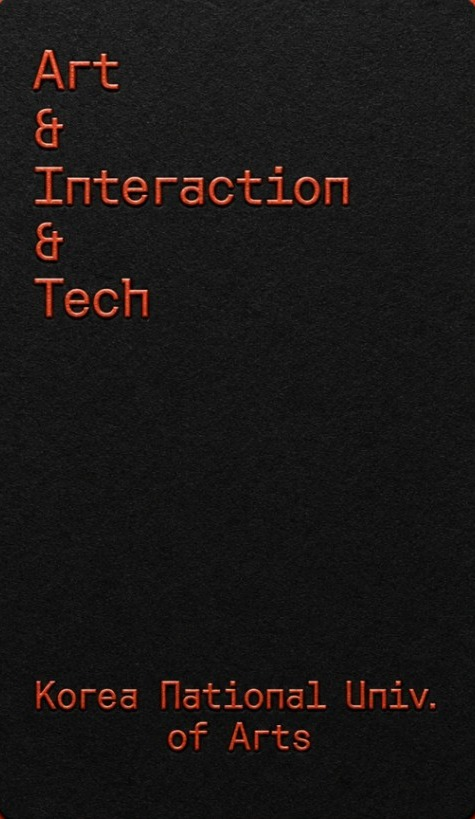
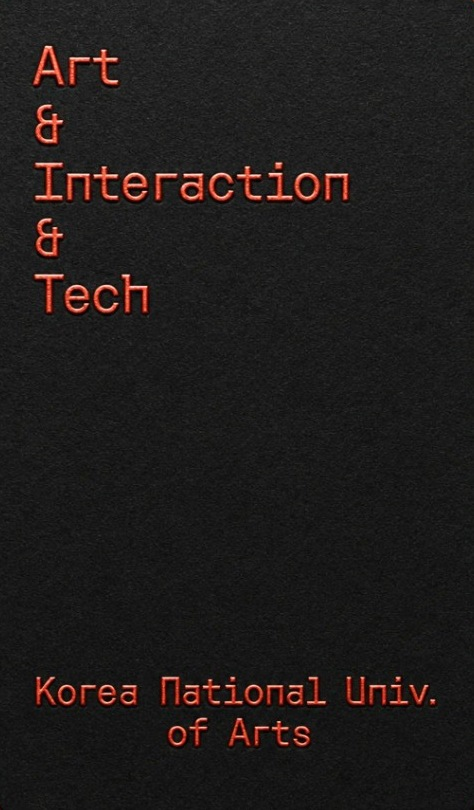
new

diff --git a/components/portfolioEngine.js b/components/portfolioEngine.js
@@ -525,29 +525,58 @@ export function mountPortfolio(els, sections, cardImages, options = {}) {
   backBtn.addEventListener('click', () => backToCard());
 
   // 이메일 복사
-  const EMAIL = 'dus10167@gmail.com';
+  const HANDLE = '@soon_soon_ac';
   let copyTimer = null;
   copyBtn.addEventListener('click', async () => {
     let ok = false;
-    try { await navigator.clipboard.writeText(EMAIL); ok = true; }
+    try { await navigator.clipboard.writeText(HANDLE); ok = true; }
     catch (_) {
       const ta = document.createElement('textarea');
-      ta.value = EMAIL; ta.setAttribute('readonly', ''); ta.style.position = 'fixed'; ta.style.opacity = '0';
+      ta.value = HANDLE; ta.setAttribute('readonly', ''); ta.style.position = 'fixed'; ta.style.opacity = '0';
       document.body.appendChild(ta); ta.select();
       try { ok = document.execCommand('copy'); } catch (_) {}
       ta.remove();
     }
-    copyBtn.textContent = ok ? 'Copied' : EMAIL;
-    copyBtn.setAttribute('aria-label', ok ? '이메일 주소를 복사했어요' : '복사하지 못했어요. 주소를 직접 선택해 주세요');
+    copyBtn.textContent = ok ? 'Copied' : HANDLE;
+    copyBtn.setAttribute('aria-label', ok ? '@soon_soon_ac를 복사했어요' : '복사하지 못했어요. 아이디를 직접 선택해 주세요');
     clearTimeout(copyTimer);
     copyTimer = setTimeout(() => {
-      copyBtn.textContent = 'Copy';
-      copyBtn.setAttribute('aria-label', '이메일 주소 복사');
+      copyBtn.textContent = HANDLE;
+      copyBtn.setAttribute('aria-label', '@soon_soon_ac 복사');
     }, 1600);
   });
 
   // Hello 누르면 :D 가 떨어짐
-  const HELLO_BOX = { u0: 0.28, u1: 0.72, v0: 0.69, v1: 0.81 };   // 앞면 이미지 안 Hello 영역 (비율)
+  const HELLO_BOX = { u0: 0.28, u1: 0.72, v0: 0.73, v1: 0.84 };   // 앞면 이미지 안 Hello 영역 (비율)
+  const arrowW = 0.5, arrowH = 0.21;
+  const arrowCanvas = document.createElement('canvas');
+  arrowCanvas.width = 512; arrowCanvas.height = 214;
+  const arrowCtx = arrowCanvas.getContext('2d');
+  arrowCtx.lineCap = 'round';
+  arrowCtx.lineJoin = 'round';
+  arrowCtx.lineWidth = 26;
+  const strokeChevron = (dx, dy) => {
+    arrowCtx.beginPath();
+    arrowCtx.moveTo(40 + dx, 30 + dy);
+    arrowCtx.lineTo(256 + dx, 172 + dy);
+    arrowCtx.lineTo(472 + dx, 30 + dy);
+    arrowCtx.stroke();
+  };
+  arrowCtx.strokeStyle = 'rgba(78, 22, 12, 0.72)';
+  strokeChevron(2, 4);
+  arrowCtx.strokeStyle = 'rgba(255, 206, 184, 0.9)';
+  strokeChevron(-1, -2);
+  const arrowMap = new THREE.CanvasTexture(arrowCanvas);
+  arrowMap.colorSpace = THREE.SRGBColorSpace;
+  const helloArrow = new THREE.Mesh(
+    new THREE.PlaneGeometry(arrowW, arrowH),
+    new THREE.MeshBasicMaterial({ map: arrowMap, color: 0xffffff, toneMapped: false, transparent: true, opacity: 0, depthWrite: false, side: THREE.DoubleSide })
+  );
+  const arrowBaseY = (0.5 - HELLO_BOX.v0) * CARD_H + 0.07 + arrowH / 2;
+  helloArrow.position.set(0, arrowBaseY, CARD_T / 2 + 0.02);
+  helloArrow.visible = false;
+  cardInner.add(helloArrow);
+  let arrowOut = 0;
   // :D 공: 배경에서 천천히 내려와 부유하다가 10초 뒤 사라짐
   function smileTexture(bg, ink) {
     const c = document.createElement('canvas'); c.width = 1024; c.height = 512;
@@ -1099,6 +1128,11 @@ export function mountPortfolio(els, sections, cardImages, options = {}) {
     const breathGain = 1 + 0.22 * breathHump * idle * (1 - Math.min(1, cOut));
     cardMats.forEach(m => { if (m.map) m.color.setRGB(breathGain, breathGain, breathGain); });
     cardLight.intensity = 3.4 * (1 - cOut) * (1 + 0.12 * breathHump * idle);
+    const arrowWant = !greeted && flipT < 0.04 && mode === 'card' && cOut < 0.02 ? 1 : 0;
+    arrowOut += (arrowWant - arrowOut) * Math.min(1, dt * (arrowWant ? 2.4 : 7));
+    helloArrow.visible = arrowOut > 0.02;
+    helloArrow.material.opacity = arrowOut;
+    helloArrow.position.y = arrowBaseY + Math.sin(t * 2.6) * 0.035 * idle;
 
     // 키 모듈
     device.visible = dRaw > 0.001;

diff --git a/styles/globals.css b/styles/globals.css
@@ -44,7 +44,7 @@ button { font: inherit; }
     content: ""; position: absolute; inset: 0; background: #000; z-index: 0;
     pointer-events: none; transition: opacity 0.9s ease, background-color 0.45s ease;
   }
-  .pocket.mode-card.show-back::after { background: #DA3610; }
+  .pocket.mode-card.show-back::after { background: #F24C34; }
   .pocket:not(.mode-card)::after { opacity: 0; }
   .pocket > * { position: relative; z-index: 1; }
   .pocket.mode-card footer { color: #F2EAE6; }

diff --git a/components/Portfolio.js b/components/Portfolio.js
@@ -60,8 +60,8 @@ export default function Portfolio({ web = false }) {
         <p id="sub" ref={subRef} />
       </div>
       <footer>
-        <button id="copy" ref={copyRef} type="button" aria-label="이메일 주소 복사">
-          Copy
+        <button id="copy" ref={copyRef} type="button" aria-label="@soon_soon_ac 복사">
+          @soon_soon_ac
         </button>
         <p id="caption" ref={captionRef} aria-live="polite">
           &nbsp;
